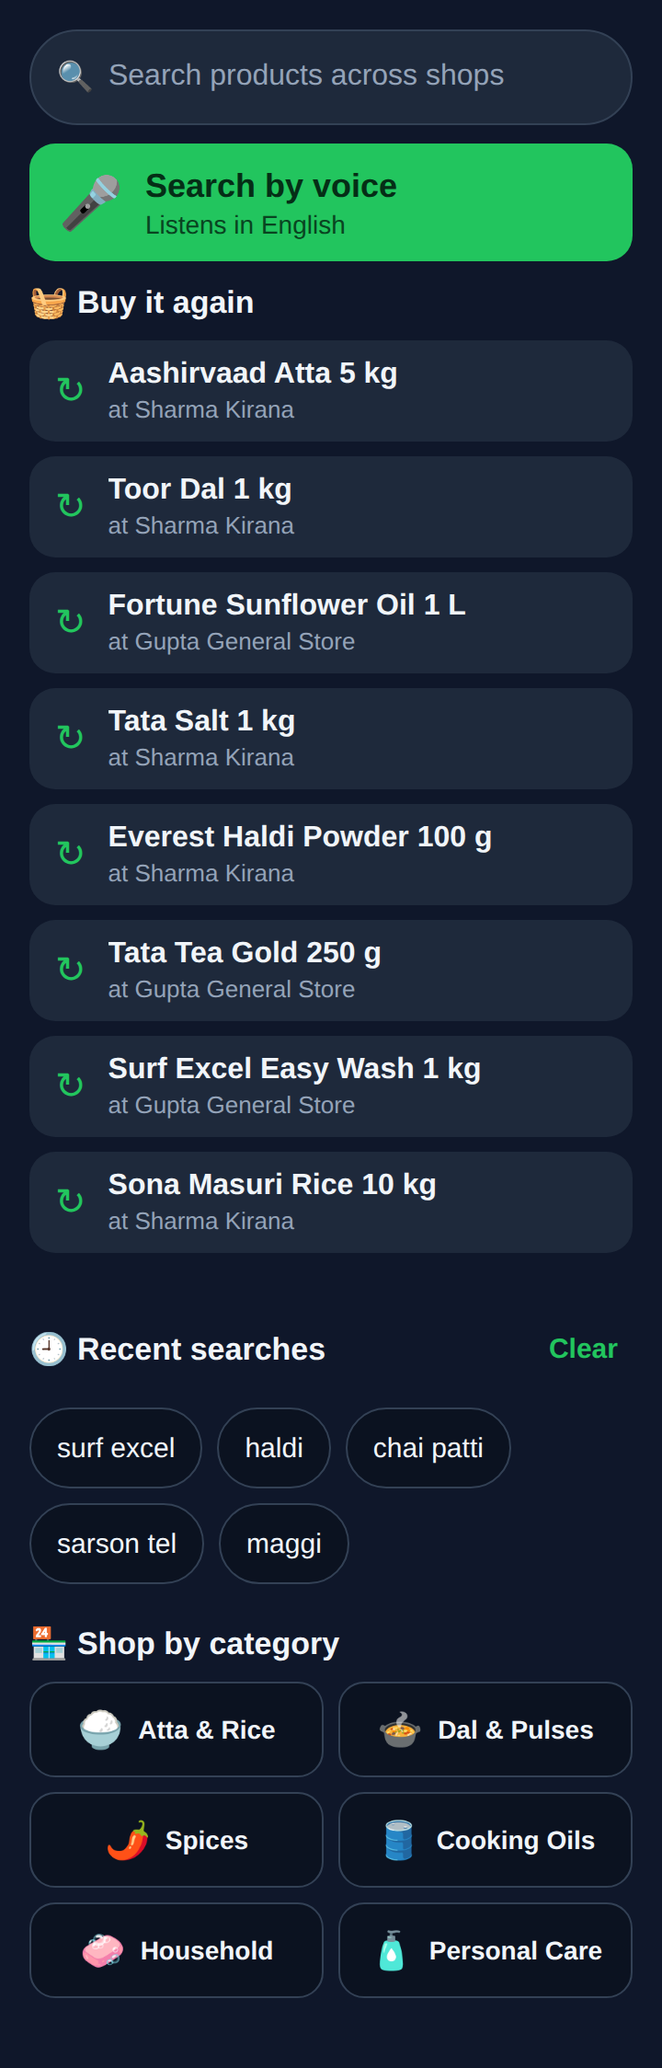
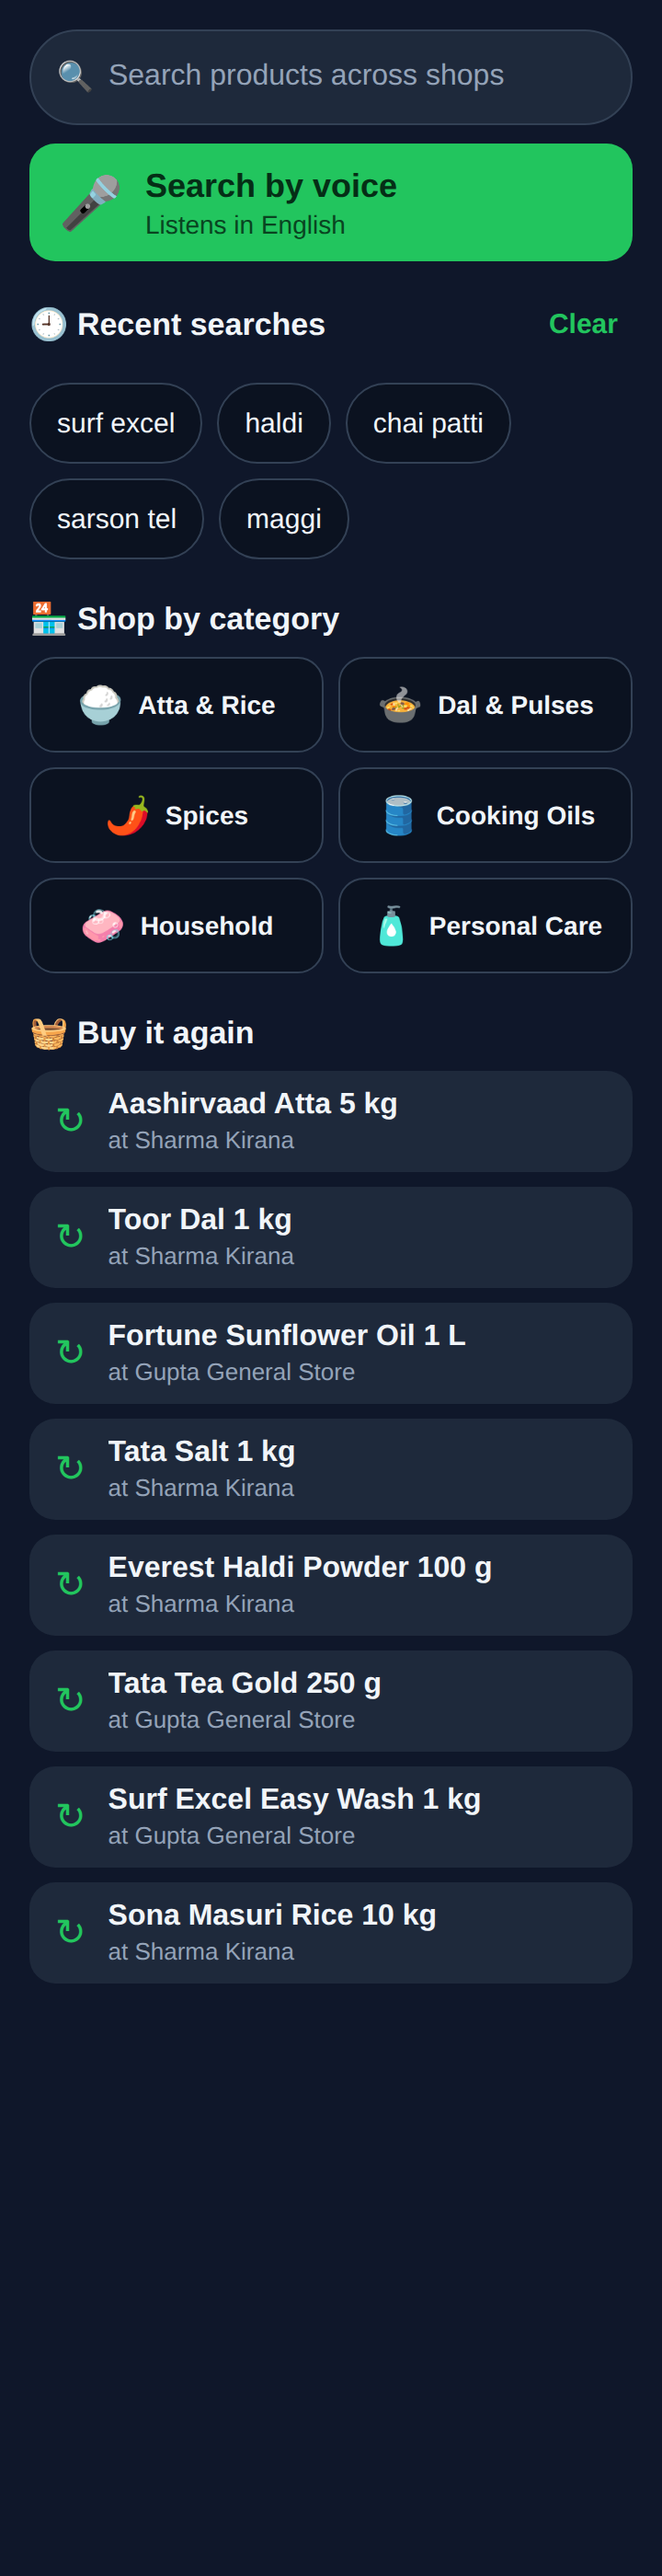
Put the shopper's own basket last on the search screen
The owner looked at both rendered states and moved buy-it-again to the bottom,
which is right. It is eight rows against two compact ones, so sitting third it
pushed the shopper's own recent words and the shelves off the bottom of a 360dp
screen — the two things that fit in a glance were the two things you could not
see. The order is now the box, speaking, their recent words, the shelves, and
then the basket, which the shopper who wants it will scroll for.

Nothing else moved. The rule that an empty section renders nothing still holds,
so a first-time shopper still sees a clean screen of search, voice and shelves.

Two things were caught while making the change rather than after. The gate's
buy-it-again block was bounded by the section that used to follow it, so the
reorder made those bounds stale — and the sentinel put there for exactly this
reason failed the check instead of letting it pass against an empty string. The
bounds are fixed and the sentinel kept. And the parse gate caught a comment I
had left unterminated, before it could reach anyone.

Verified by rendering the real screen again rather than by reading the source:
all four sections in the new order, 139 checks green, all sixty-two mobile files
parse. The committed screenshot is replaced with the new one.

Claude-Session: https://claude.ai/code/session_01AMPTtmtZdEWm9CRUJM9dDm

diff --git a/mobile-app/src/consumer/screens/ProductSearchScreen.js b/mobile-app/src/consumer/screens/ProductSearchScreen.js
@@ -381,37 +381,7 @@ export default function ProductSearchScreen({ route, navigation }) {
 
       {/* ---- 2/3/4. The browse surface, shown only before a search ---- */}
 
-      {/* 2. BUY IT AGAIN. Their own items, most frequent first. One tap runs the
-             remembered name as a search. NO PRICE is shown and none is
-             fetched — a price is a per-shop lookup and this screen is drawn on
-             2G. Absent entirely when the list is empty, which is every
-             brand-new shopper and every signed-out install. */}
-      {browsing && buyAgain.length > 0 ? (
-        <View style={styles.section}>
-          <Text style={styles.sectionTitle}>🧺 {t('psearch.buyAgain')}</Text>
-          {buyAgain.map((item, i) => (
-            <Pressable
-              key={`${item.name}:${item.shop_id || i}`}
-              onPress={() => pickTerm(item.name)}
-              style={({ pressed }) => [styles.againRow, pressed && styles.pressed]}
-              accessibilityRole="button"
-              accessibilityLabel={`${item.name} · ${item.shop_name || ''}`}
-            >
-              <Text style={styles.againIcon}>↻</Text>
-              <View style={styles.againText}>
-                <Text style={styles.againName} numberOfLines={1}>{item.name}</Text>
-                {item.shop_name ? (
-                  <Text style={styles.againShop} numberOfLines={1}>
-                    {t('psearch.atShop', { shop: item.shop_name })}
-                  </Text>
-                ) : null}
-              </View>
-            </Pressable>
-          ))}
-        </View>
-      ) : null}
-
-      {/* 3. RECENT SEARCHES. The shopper's own words, from this handset only —
+      {/* 2. RECENT SEARCHES. The shopper's own words, from this handset only —
              no backend, nothing synced. Compact chips, and a Clear. */}
       {browsing && recent.length > 0 ? (
         <View style={styles.section}>
@@ -442,7 +412,7 @@ export default function ProductSearchScreen({ route, navigation }) {
         </View>
       ) : null}
 
-      {/* 4. SHOP BY CATEGORY. Always present. Each chip filters by a REAL
+      {/* 3. SHOP BY CATEGORY. Always present. Each chip filters by a REAL
              catalogue shelf, not a guessed keyword — see lib/categories.js for
              what the keywords were actually reaching. */}
       {browsing ? (
@@ -462,6 +432,42 @@ export default function ProductSearchScreen({ route, navigation }) {
               </Pressable>
             ))}
           </View>
+        </View>
+      ) : null}
+
+      {/* 4. BUY IT AGAIN. Their own items, most frequent first. One tap runs the
+             remembered name as a search. NO PRICE is shown and none is
+             fetched — a price is a per-shop lookup and this screen is drawn on
+             2G. Absent entirely when the list is empty, which is every
+             brand-new shopper and every signed-out install.
+
+             LAST on purpose. It is the tallest section by far — eight rows
+             against two compact ones — so placing it above pushed the recent
+             words and the shelves off the bottom of a 360dp screen. The
+             shopper who wants it is the one who has scrolled for it, and the
+             two sections that fit in a glance now do. */}
+      {browsing && buyAgain.length > 0 ? (
+        <View style={styles.section}>
+          <Text style={styles.sectionTitle}>🧺 {t('psearch.buyAgain')}</Text>
+          {buyAgain.map((item, i) => (
+            <Pressable
+              key={`${item.name}:${item.shop_id || i}`}
+              onPress={() => pickTerm(item.name)}
+              style={({ pressed }) => [styles.againRow, pressed && styles.pressed]}
+              accessibilityRole="button"
+              accessibilityLabel={`${item.name} · ${item.shop_name || ''}`}
+            >
+              <Text style={styles.againIcon}>↻</Text>
+              <View style={styles.againText}>
+                <Text style={styles.againName} numberOfLines={1}>{item.name}</Text>
+                {item.shop_name ? (
+                  <Text style={styles.againShop} numberOfLines={1}>
+                    {t('psearch.atShop', { shop: item.shop_name })}
+                  </Text>
+                ) : null}
+              </View>
+            </Pressable>
+          ))}
         </View>
       ) : null}
 
